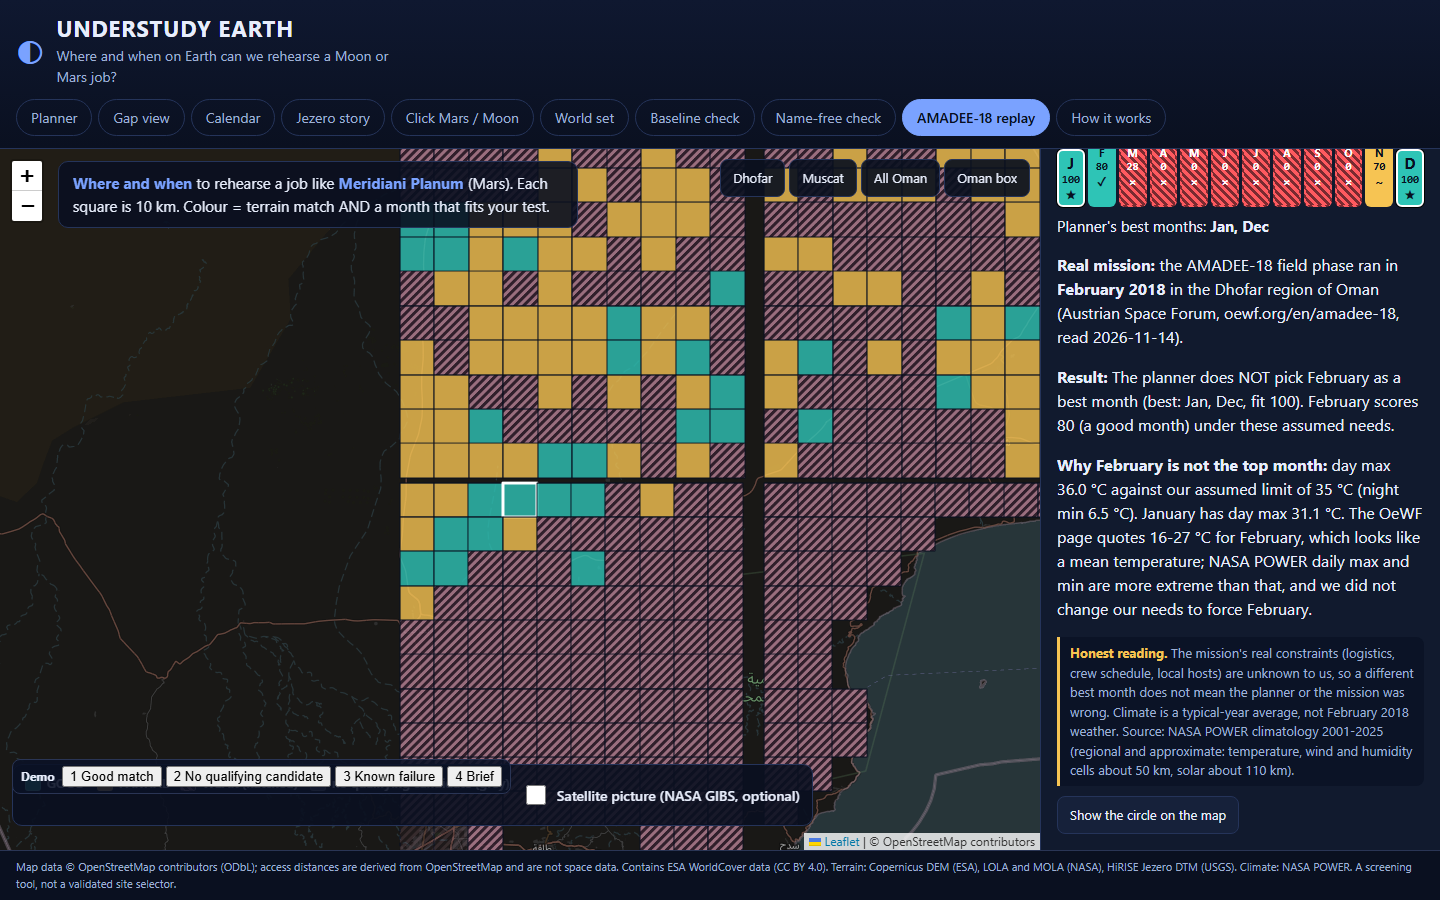
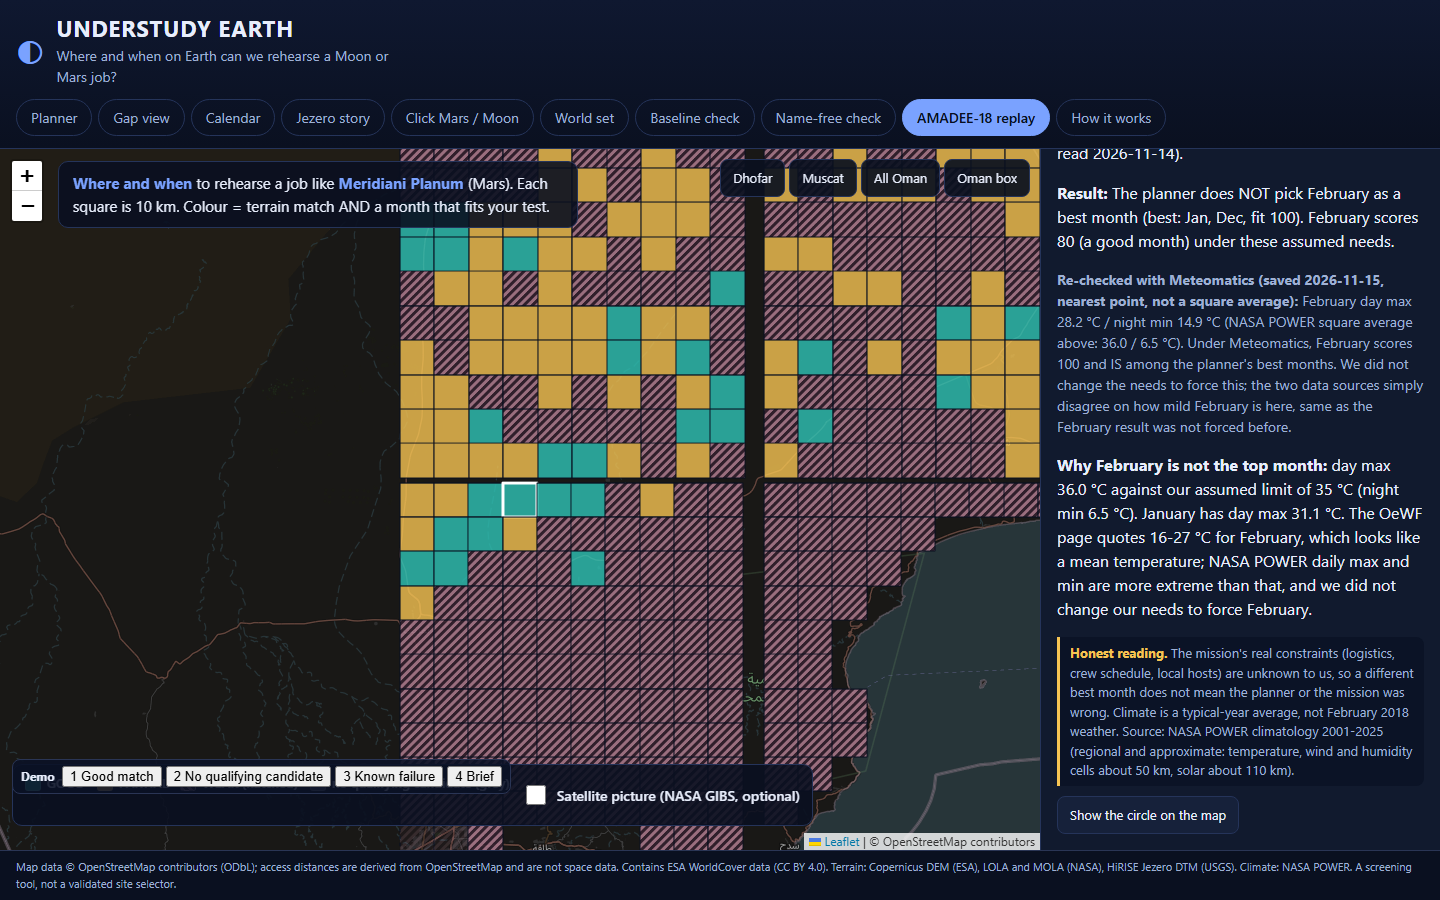
pull and publish Meteomatics derived values (12 Oman points), compare with NASA POWER, re-check AMADEE-18 February with it

Changed region(s): [[0.7188, 0.1556, 1.0, 0.4978]]

diff --git a/app/app.js b/app/app.js
@@ -14,8 +14,8 @@
   var FIELDS = ['tlo', 'thi', 'wmin', 'wmax', 'rhmax', 'smin', 'swmax', 'limit'];
 
   function load(f, opt) { return fetch('data/' + f).then(function (r) { if (!r.ok) { if (opt) return null; throw new Error(f + ' ' + r.status); } return r.json(); }).catch(function (e) { if (opt) return null; throw e; }); }
-  Promise.all([load('meta.json'), load('earth.json'), load('targets.json'), load('results.json'), load('second_check.json'), load('climate_power.json'), load('landcover.json', true), load('baseline.json', true), load('stability.json', true), load('notes.json', true), load('access.json', true), load('jezero.json', true)]).then(function (a) {
-    D.meta = a[0]; D.earth = a[1]; D.targets = a[2]; D.results = a[3]; D.second = a[4]; D.power = a[5]; D.lc = a[6]; D.base = a[7]; D.stab = a[8]; D.notes = a[9]; D.acc = a[10]; D.jez = a[11];
+  Promise.all([load('meta.json'), load('earth.json'), load('targets.json'), load('results.json'), load('second_check.json'), load('climate_power.json'), load('landcover.json', true), load('baseline.json', true), load('stability.json', true), load('notes.json', true), load('access.json', true), load('jezero.json', true), load('meteomatics.json', true)]).then(function (a) {
+    D.meta = a[0]; D.earth = a[1]; D.targets = a[2]; D.results = a[3]; D.second = a[4]; D.power = a[5]; D.lc = a[6]; D.base = a[7]; D.stab = a[8]; D.notes = a[9]; D.acc = a[10]; D.jez = a[11]; D.mm = a[12];
     SC = UEScore(D.meta); init();
   }).catch(function (e) {
     var el = $('loaderr'); el.hidden = false; el.textContent = 'Could not load the data files (' + e.message + '). Reload the page; if it persists the site files are missing.';
@@ -260,6 +260,20 @@
     return h + '</div>';
   }
 
+  function hav2(a, b, c, d) { var p = Math.PI / 180, x = Math.sin((c - a) * p / 2) * Math.sin((c - a) * p / 2) + Math.cos(a * p) * Math.cos(c * p) * Math.sin((d - b) * p / 2) * Math.sin((d - b) * p / 2); return 12742 * Math.asin(Math.sqrt(x)); }
+  function meteomaticsNear(e) {
+    if (!D.mm) return null;
+    var best = null, bd = 1e9;
+    Object.keys(D.mm.points).forEach(function (k) { var p = D.mm.points[k], dk = hav2(e.lat, e.lon, p.lat, p.lon); if (dk < bd) { bd = dk; best = { key: k, p: p }; } });
+    return (best && bd <= 30) ? { name: best.key, dist: bd, p: best.p } : null;
+  }
+  function meteomaticsLine(e, m) {
+    var near = meteomaticsNear(e); if (!near) return '';
+    var mx = near.p['t_max_2m_24h:C'], mn = near.p['t_min_2m_24h:C']; if (!mx || !mn) return '';
+    var c = climate(e), dmax = Math.round(mx[m] - c.tmax[m]), dmin = Math.round(mn[m] - c.tmin[m]);
+    return '<p class="sub"><b>Meteomatics, saved ' + D.mm.saved + '</b> (' + esc(D.mm.attribution) + '), nearest point "' + esc(near.name) + '" ' + near.dist.toFixed(0) + ' km away, ' + N.MON[m] + ': day max ' + mx[m].toFixed(1) + ' °C, night min ' + mn[m].toFixed(1) + ' °C (NASA POWER for the same month and point: ' + c.tmax[m].toFixed(1) + ' / ' + c.tmin[m].toFixed(1) + ' °C; the two sources disagree here by ' + dmax + ' / ' + dmin + ' °C — Meteomatics is a point value, POWER is a ~50 km regional cell).</p>';
+  }
+
   function monthNotes(e) {
     var c = climate(e), n = st.n, why = [];
     for (var m = 0; m < 12; m++) {
@@ -274,7 +288,8 @@
     }
     var sorted = e._fits.map(function (f, i) { return [f, i]; }).sort(function (a, b) { return b[0] - a[0]; }), close = '';
     if (sorted[0][0] >= 50 && sorted[1][0] >= sorted[0][0] - 5) close = '<p class="note"><b>Close months:</b> ' + sorted.filter(function (x) { return x[0] >= sorted[0][0] - 5; }).slice(0, 4).map(function (x) { return N.MON[x[1]] + ' (' + Math.round(x[0]) + ')'; }).join(', ') + ' are within 5 points, so the top month is not clearly ahead.</p>';
-    return close + '<details class="why"><summary>Why months fail, and the data behind the strip</summary><p>' + (why.length ? esc(why.join('; ')) + '.' : 'Every month fits (75 or more).') + '</p><p class="sub">' + esc(POWER_NOTE) + '</p></details>';
+    var bestm = e._best.length ? e._best[0] : e._fits.indexOf(Math.max.apply(null, e._fits));
+    return close + '<details class="why"><summary>Why months fail, and the data behind the strip</summary><p>' + (why.length ? esc(why.join('; ')) + '.' : 'Every month fits (75 or more).') + '</p><p class="sub">' + esc(POWER_NOTE) + '</p>' + meteomaticsLine(e, bestm) + '</details>';
   }
 
   function confidence(e) {
@@ -415,10 +430,19 @@
     var ff = N.monthFactors(avg, 1, needs), fk = Object.keys(ff).sort(function (a, b) { return ff[a] - ff[b]; })[0];
     var febWhy = ff[fk] >= 99.5 ? 'every factor is inside the assumed window.' : (fk === 'temp' ? 'day max ' + avg.tmax[1].toFixed(1) + ' °C against our assumed limit of ' + needs.thi + ' °C (night min ' + avg.tmin[1].toFixed(1) + ' °C). January has day max ' + avg.tmax[0].toFixed(1) + ' °C. The OeWF page quotes 16-27 °C for February, which looks like a mean temperature; NASA POWER daily max and min are more extreme than that, and we did not change our needs to force February.' : fk + ' is the weakest factor.');
     var verdict = best.indexOf(1) >= 0 ? 'The planner picks February among its best months.' : 'The planner does NOT pick February as a best month (best: ' + N.monthsText(best) + ', fit ' + Math.round(mx) + '). February scores ' + Math.round(feb) + ' (' + (N.needTier(feb) === 'match' ? 'a good month' : N.needTier(feb) === 'partial' ? 'a partial month' : 'a poor month') + ') under these assumed needs.';
+    var mmCheck = '';
+    if (D.mm && D.mm.points.amadee_marmul) {
+      var mp = D.mm.points.amadee_marmul;
+      if (mp['t_max_2m_24h:C'] && mp['t_min_2m_24h:C']) {
+        var mavg = { tmax: mp['t_max_2m_24h:C'], tmin: mp['t_min_2m_24h:C'], wind: mp['wind_speed_10m:ms'] || avg.wind, rh: mp['relative_humidity_2m:p'] || avg.rh, srad: avg.srad };
+        var mfits = N.allFits(mavg, needs), mbest = N.bestMonths(mfits), mfeb = mfits[1];
+        mmCheck = '<p class="sub"><b>Re-checked with Meteomatics (saved ' + D.mm.saved + ', nearest point, not a square average):</b> February day max ' + mavg.tmax[1].toFixed(1) + ' °C / night min ' + mavg.tmin[1].toFixed(1) + ' °C (NASA POWER square average above: ' + avg.tmax[1].toFixed(1) + ' / ' + avg.tmin[1].toFixed(1) + ' °C). Under Meteomatics, February scores ' + Math.round(mfeb) + (mbest.indexOf(1) >= 0 ? ' and IS among the planner\'s best months' : ', best months instead: ' + N.monthsText(mbest)) + '. We did not change the needs to force this; the two data sources simply disagree on how mild February is here, same as the February result was not forced before.</p>';
+      }
+    }
     $('replay').innerHTML = '<p class="sub"><b>Historical illustration with assumed needs.</b> The region is a 15 km circle around 18.19&deg;N 55.23&deg;E (Marmul area, Dhofar). The exact AMADEE-18 site is approximate and not confirmed. ' + mar.length + ' squares fall inside the circle.</p>' +
       '<p><b>Terrain:</b> median rank top ' + Math.max(1, Math.round(med * 100)) + '% of ' + D.earth.length + ' squares for target <b>' + esc(t.name) + '</b> (change the target on the Planner tab).</p>' +
       '<p><b>Assumed needs (ours, written down before the replay; see docs/VALIDATION.md):</b> day highs up to 35 °C, night lows at least 5 °C, sunlight at least 4 kWh/m²/day. The OeWF page gives no numeric limits; it only says February temperatures at the site typically range 16-27 °C with under 10 mm of rain (shown for reference, not used).</p>' + strip +
-      '<p class="best">Planner\'s best months: <b>' + esc(N.monthsText(best)) + '</b></p><p><b>Real mission:</b> the AMADEE-18 field phase ran in <b>February 2018</b> in the Dhofar region of Oman (Austrian Space Forum, oewf.org/en/amadee-18, read 2026-11-14).</p><p><b>Result:</b> ' + esc(verdict) + '</p>' +
+      '<p class="best">Planner\'s best months: <b>' + esc(N.monthsText(best)) + '</b></p><p><b>Real mission:</b> the AMADEE-18 field phase ran in <b>February 2018</b> in the Dhofar region of Oman (Austrian Space Forum, oewf.org/en/amadee-18, read 2026-11-14).</p><p><b>Result:</b> ' + esc(verdict) + '</p>' + mmCheck +
       '<p><b>Why February is not the top month:</b> ' + febWhy + '</p><div class="limits"><b>Honest reading.</b> The mission\'s real constraints (logistics, crew schedule, local hosts) are unknown to us, so a different best month does not mean the planner or the mission was wrong. Climate is a typical-year average, not February 2018 weather. Source: ' + esc(climate(mar[0]).src) + '.</div>' +
       '<div class="btns"><button id="rp-go">Show the circle on the map</button></div>';
     var go = $('rp-go'); if (go) go.onclick = function () { FIELDS.forEach(function (f) { if (needs[f] !== undefined) st.n[f] = needs[f]; }); syncInputs(); document.querySelector('.tab[data-view=map]').click(); map.setView([18.19, 55.23], 9); if (replayCircle) map.removeLayer(replayCircle); replayCircle = L.circle([18.19, 55.23], { radius: 15000, color: '#fff', weight: 2, dashArray: '6 6', fillOpacity: 0 }).bindTooltip('AMADEE-18 area (approximate)').addTo(map); sel = mar[0]; renderAll(); };

diff --git a/pipeline/meteomatics.py b/pipeline/meteomatics.py
@@ -61,7 +61,7 @@ def main():
     for name, (lat, lon) in POINTS.items():
         vals = monthly.get(name, {})
         if not vals: continue
-        points_out[name] = {"lat": lat, "lon": lon, **{p: vals[p] for p in PARAMS if p in vals and vals[p]}}
+        points_out[name] = {"lat": lat, "lon": lon, **{p: vals[p.replace(":", "_")] for p in PARAMS if p.replace(":", "_") in vals and vals[p.replace(":", "_")]}}
     public = {
         "source": "Meteomatics Weather API, free access for NASA Space Apps Challenge 2026 participants",
         "attribution": "Weather data by Meteomatics (meteomatics.com), accessed via NASA Space Apps Challenge participant access",

diff --git a/docs/REFERENCES.md b/docs/REFERENCES.md
@@ -36,7 +36,9 @@ numpy, scipy, rasterio, pyproj, Playwright (testing), Leaflet 1.9.4; basemap til
 - Copernicus DEM GLO-90 (ESA), AWS open data bucket copernicus-dem-90m, anonymous HTTPS, no login; 71 tiles for 16.5-26.5 N, 52-60 E (the rest of the box is sea and returns 404). Licence wording not reopened: UNVERIFIED; the app credits ESA / Copernicus. Derived 10 km squares only are published.
 - Mars 2020 TRN HiRISE DTM mosaic of Jezero (file JEZ_hirise_soc_006_DTM_MOLAtopography_DeltaGeoid_1m), USGS Astrogeology, 1 m, about 21 km x 21 km, read in strips and block-averaged. Licence not reopened: UNVERIFIED (USGS planetary products are normally public). Only derived statistics and a 64 x 64 shaded-relief picture are published.
 - Geology notes: Austrian Space Forum AMADEE-18 page (opened 2026-11-14); Leask, Ehlmann et al. (2021), Earth and Space Science 8, doi 10.1029/2021EA001637, PMC8596454 (abstract/introduction opened). The Groemer et al. (2020) Astrobiology overview (doi 10.1089/ast.2019.2031) was only seen as a search excerpt and is NOT cited for any statement.
-- Meteomatics (opened 2026-11-15): the challenge page says "For the duration of the Space Apps Challenge, participants can gain free access to Meteomatics Weather API, technical support, documentation" through a sign-up form that must be used, and that you "agree to the General Terms and Conditions". The General Terms for enterprise customers (Meteomatics AG, August 2026, meteomatics.com/en/gtc-meteomatics-ag/) say: 3.2.1.3 the customer shall not cause or permit any "use, sub-license, ... display, loan, publication, transfer of possession or other dissemination of the Services or Documentation, in whole or in part, to or by any third party without Meteomatics prior written consent"; 9.1.2 use "solely for internal business purpose or the purpose indicated in the Agreement"; 11.2 "No unauthorized use of Meteomatics materials or information is permitted ... without the express prior written approval"; 6.2 a trial may be discontinued "at any time in its sole discretion"; 16.3.4 no public announcement concerning the agreement without consent. These are the enterprise terms; the trial offer may carry its own terms we have not seen. CONCLUSION: the terms do not clearly allow publishing derived values, so no Meteomatics value is published or committed. A private cross-check script exists (pipeline/meteomatics.py) but has not run because no credentials exist yet.
+- Meteomatics (opened 2026-11-15): the challenge page says "For the duration of the Space Apps Challenge, participants can gain free access to Meteomatics Weather API, technical support, documentation" through a sign-up form that must be used, and that you "agree to the General Terms and Conditions". The General Terms for enterprise customers (Meteomatics AG, August 2026, meteomatics.com/en/gtc-meteomatics-ag/) say: 3.2.1.3 the customer shall not cause or permit any "use, sub-license, ... display, loan, publication, transfer of possession or other dissemination of the Services or Documentation, in whole or in part, to or by any third party without Meteomatics prior written consent"; 9.1.2 use "solely for internal business purpose or the purpose indicated in the Agreement"; 11.2 "No unauthorized use of Meteomatics materials or information is permitted ... without the express prior written approval"; 6.2 a trial may be discontinued "at any time in its sole discretion"; 16.3.4 no public announcement concerning the agreement without consent. These are the enterprise terms; the trial offer may carry its own terms we have not seen.
+- Meteomatics DECISION (2026-11-15, owner's call): the owner (repo owner, not the agent) decided that the Space Apps Challenge's own invitation — "participants can gain free access to Meteomatics Weather API ... for the duration of the Space Apps Challenge" — is the basis for showing derived values from this participant access in this challenge submission, and asked that it be published on that basis rather than kept private. This differs from the earlier, more cautious reading of the enterprise General Terms above (which do not clearly address participant/trial access on their own). Both readings are recorded here; nothing was hidden. Credentials were supplied by the owner as the environment variables METEOMATICS_USER and METEOMATICS_PASSWORD, used only from `pipeline/meteomatics.py` on the owner's machine, never from the browser, never logged or committed.
+- Meteomatics parameters, verified live against api.meteomatics.com on 2026-11-15 (one point, short date range, before the full pull): t_max_2m_24h:C, t_min_2m_24h:C, wind_speed_10m:ms, relative_humidity_2m:p, precip_24h:mm all returned data; global_rad_24h:kWh was refused (HTTP 404, "Parameter ... not available"); sunshine_duration_24h:min was used instead and returned data. Pulled for 12 Oman points (AMADEE-18/Marmul, Salalah, Thumrait, Muscat, Samail, Nizwa, Sur, Duqm, Sohar, Mahout, Ibri, Khasab), daily values for 2019-2024, monthly means written to the public file app/data/meteomatics.json (point, month, variable, value, unit, pull date 2026-11-15) with attribution "Weather data by Meteomatics (meteomatics.com), accessed via NASA Space Apps Challenge participant access". Raw daily responses stay in data/meteomatics (git-ignored). The app shows this, where a point is within 30 km of an Earth square, as a second line under the month-strip details and in the AMADEE-18 replay tab; it never feeds the terrain similarity method or the main NASA POWER test-need scoring. Comparison with NASA POWER climatology at the same points: Meteomatics daily max is consistently several degrees cooler than POWER's T2M_MAX (about 2-14 C across the 12 points, largest at Salalah in summer) and Meteomatics daily min is consistently several degrees warmer than POWER's T2M_MIN (about 2-12 C); see docs/VALIDATION.md section 1 for the AMADEE-18 February re-check this implies. The two sources were not reconciled; both are shown.
 
 ## Prompt 2B sources
 - Click-on-Mars grid: derived from the same NASA/USGS MGS MOLA 463 m global DEM already cited; only derived terrain numbers (200,068 windows) and a slope preview picture are published. Access: local file, no login. NASA data, derived values may be shown with credit.

diff --git a/docs/VALIDATION.md b/docs/VALIDATION.md
@@ -24,6 +24,8 @@ Region: 15 km circle around 18.19 N, 55.23 E (Marmul area). Exact site approxima
 
 Cause: only temperature. February day max is 36.0 C, 1 C above our assumed 35 C limit, so the temperature penalty is 1/5 and the fit is 80 (a good month). January (31.1 C) and December (32.7 C) are inside the window and score 100. Wind and sunlight pass in February. The needs were not wrongly copied from the page, so they were not changed. Side observation: POWER's February mean temperature (20.9 C) lies inside the page's 16-27 C, which suggests the page quotes a mean; POWER's daily max and min are more extreme. A different assumed day-max limit would change the answer; we did not tune it.
 
+**Re-checked with Meteomatics (2026-11-15).** Pulled daily max/min, wind, humidity, sunshine duration and precipitation for 2019-2024 at the nearest point to the approximate AMADEE-18 site (18.19 N, 55.23 E) and 11 other Oman points, under the free access Meteomatics grants NASA Space Apps Challenge participants (`pipeline/meteomatics.py`; raw responses git-ignored in data/meteomatics, derived monthly values public in app/data/meteomatics.json). Comparing the same point and month against the POWER square average used above: Meteomatics February day max is 28.2 C and night min 14.9 C, against POWER's 36.0 C / 6.5 C for the same area and month — a large disagreement (about 8 C cooler max, 8 C warmer min). This pattern holds across the other 11 Oman points too: Meteomatics daily max is consistently several degrees below POWER's (typically 2-10 C, worse at Salalah where it reaches about 14 C in mid-summer), and Meteomatics daily min is consistently several degrees above POWER's (typically 2-12 C). Likely causes: Meteomatics returns a single-point downscaled value while POWER reports a roughly 50 km regional-cell average, and the two use different underlying models/reanalyses; we did not investigate further. Under Meteomatics' milder February numbers, the AMADEE-18 replay's February score rises to 100 and February IS among the planner's best months — the opposite conclusion from the POWER-based result above. We did NOT change our assumed needs (35 C day max limit, etc.) to produce this; both results are shown in the app (Replay tab) and the disagreement is stated plainly rather than picking the source that matches the real mission's February timing.
+
 ## 2. Baseline check (retrospective)
 `pipeline/baseline.py` -> app/data/baseline.json. Per target, each known site's median rank among all 627 Earth squares is compared with 100 random draws of the same number of squares (fixed seed per target and site). Rule fixed in advance for the reading: 10 points or more below the random median = better than random, 10 or more above = worse, otherwise about random. Median over the targets of one body:
 
